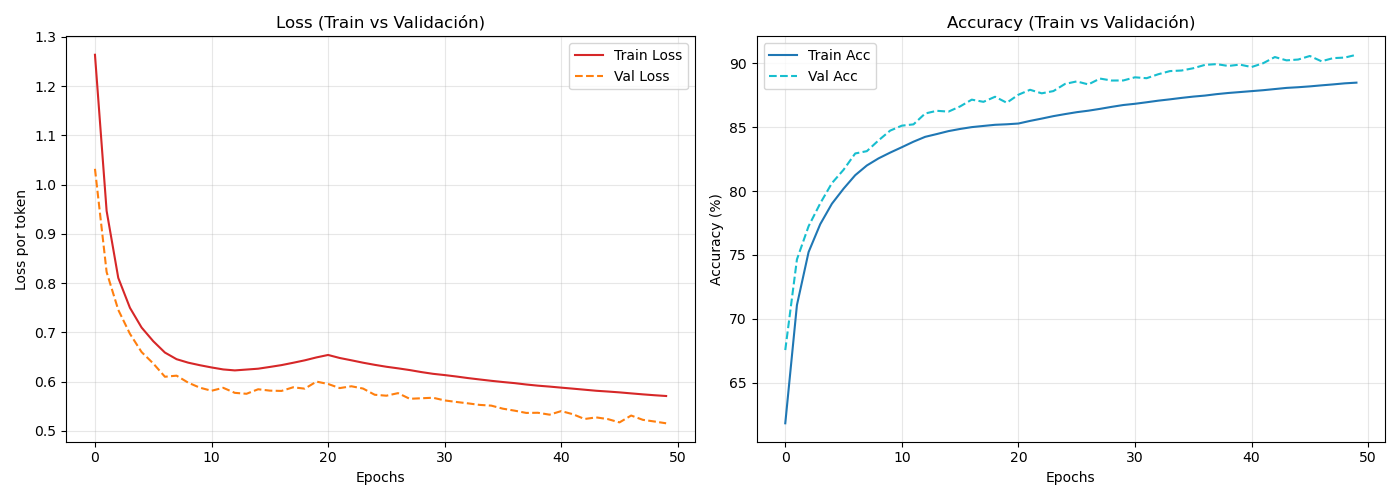
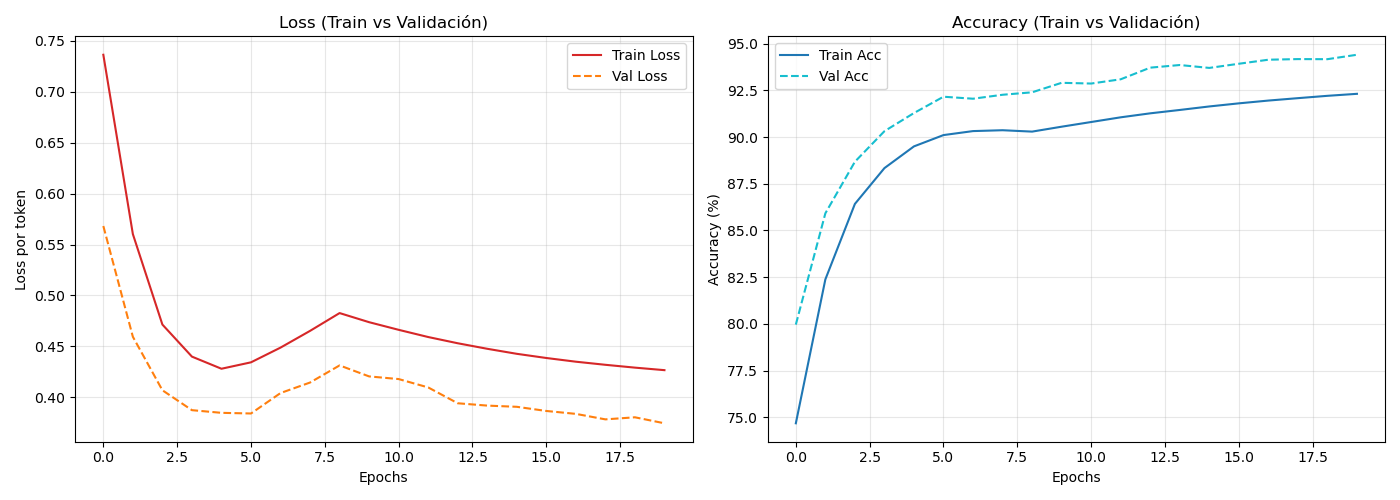
Integracion del Dataset Moses, y correccion de errores para poder evaluar el modelo con MOSES.

diff --git a/src/analisis_resultados.py b/src/analisis_resultados.py
@@ -23,7 +23,7 @@ RDLogger.DisableLog('rdApp.*')
 
 # --- CONFIGURACIÓN ---
 MODEL_PATH = os.path.join(ROOT_DIR, "models", "vae_model.pth")
-ZINC_PATH = os.path.join(ROOT_DIR, "data", "zinc250k.csv")
+MOSES_PATH = os.path.join(ROOT_DIR, "data", "moses.csv")
 NUM_GENERATED = 30000      # Número de moléculas a generar
 MAX_LEN = 100
 TEMP = 1.0
@@ -172,19 +172,22 @@ def calculate_properties(smiles_list, source_name=""):
     return df
 
 
-def load_zinc_dataset(path, sample_size=None):
-    """Carga el dataset ZINC250k y extrae SMILES."""
-    print(f"Cargando dataset ZINC250k desde {path}...")
+def load_moses_dataset(path, sample_size=None):
+    """Carga el dataset MOSES y extrae SMILES."""
+    print(f"Cargando dataset MOSES desde {path}...")
     df = pd.read_csv(path)
     
-    # Limpiar SMILES (quitar saltos de línea)
-    df['smiles'] = df['smiles'].str.strip()
+    # MOSES usa la columna "SMILES" y "SPLIT". Filtrar por train
+    df_train = df[df['SPLIT'] == 'train'].copy()
     
-    if sample_size and sample_size < len(df):
-        df = df.sample(n=sample_size, random_state=42)
+    # Limpiar SMILES (quitar saltos de línea)
+    df_train['SMILES'] = df_train['SMILES'].str.strip()
+    
+    if sample_size and sample_size < len(df_train):
+        df_train = df_train.sample(n=sample_size, random_state=42)
         print(f"  Muestra de {sample_size} moléculas seleccionada")
     
-    return df['smiles'].tolist()
+    return df_train['SMILES'].tolist()
 
 
 def plot_comparison(df_original, df_generated, output_path):
@@ -198,11 +201,11 @@ def plot_comparison(df_original, df_generated, output_path):
     fig, axes = plt.subplots(1, 2, figsize=(14, 5))
     
     # Colores
-    colors = {'ZINC250k (Original)': '#2E86AB', 'Generadas (VAE)': '#E94F37'}
+    colors = {'MOSES (Original)': '#2E86AB', 'Generadas (VAE)': '#E94F37'}
     
     # --- Gráfico 1: Distribución de LogP ---
     ax1 = axes[0]
-    for source in ['ZINC250k (Original)', 'Generadas (VAE)']:
+    for source in ['MOSES (Original)', 'Generadas (VAE)']:
         data = df_combined[df_combined['Source'] == source]['LogP']
         sns.kdeplot(
             data=data,
@@ -218,14 +221,14 @@ def plot_comparison(df_original, df_generated, output_path):
     ax1.set_ylabel('Densidad', fontsize=12)
     ax1.set_title('Distribución de LogP', fontsize=14, fontweight='bold')
     ax1.legend(fontsize=10)
-    ax1.axvline(x=df_original['LogP'].mean(), color=colors['ZINC250k (Original)'], 
+    ax1.axvline(x=df_original['LogP'].mean(), color=colors['MOSES (Original)'], 
                 linestyle='--', alpha=0.7, label=f"Media Original: {df_original['LogP'].mean():.2f}")
     ax1.axvline(x=df_generated['LogP'].mean(), color=colors['Generadas (VAE)'], 
                 linestyle='--', alpha=0.7, label=f"Media Generadas: {df_generated['LogP'].mean():.2f}")
     
     # --- Gráfico 2: Distribución de Peso Molecular ---
     ax2 = axes[1]
-    for source in ['ZINC250k (Original)', 'Generadas (VAE)']:
+    for source in ['MOSES (Original)', 'Generadas (VAE)']:
         data = df_combined[df_combined['Source'] == source]['MW']
         sns.kdeplot(
             data=data,
@@ -241,7 +244,7 @@ def plot_comparison(df_original, df_generated, output_path):
     ax2.set_ylabel('Densidad', fontsize=12)
     ax2.set_title('Distribución de Peso Molecular', fontsize=14, fontweight='bold')
     ax2.legend(fontsize=10)
-    ax2.axvline(x=df_original['MW'].mean(), color=colors['ZINC250k (Original)'], 
+    ax2.axvline(x=df_original['MW'].mean(), color=colors['MOSES (Original)'], 
                 linestyle='--', alpha=0.7)
     ax2.axvline(x=df_generated['MW'].mean(), color=colors['Generadas (VAE)'], 
                 linestyle='--', alpha=0.7)
@@ -259,7 +262,7 @@ def print_statistics(df_original, df_generated):
     print("ESTADÍSTICAS COMPARATIVAS")
     print("="*60)
     
-    print(f"\n{'Métrica':<25} {'ZINC250k':<20} {'Generadas':<20}")
+    print(f"\n{'Métrica':<25} {'MOSES':<20} {'Generadas':<20}")
     print("-"*65)
     
     # Número de moléculas válidas
@@ -284,7 +287,7 @@ def print_statistics(df_original, df_generated):
 
 def main():
     print("="*60)
-    print("ANÁLISIS COMPARATIVO: Moléculas Generadas vs ZINC250k")
+    print("ANÁLISIS COMPARATIVO: Moléculas Generadas vs MOSES")
     print("="*60)
     
     # 1. Cargar modelo VAE
@@ -297,13 +300,13 @@ def main():
     generated_smiles = generate_molecules(model, stoi, itos, latent_dim, NUM_GENERATED)
     
     # 3. Cargar dataset original (muestra del mismo tamaño para comparación justa)
-    print(f"\n[3/5] Cargando dataset ZINC250k...")
-    original_smiles = load_zinc_dataset(ZINC_PATH, sample_size=NUM_GENERATED)
+    print(f"\n[3/5] Cargando dataset MOSES...")
+    original_smiles = load_moses_dataset(MOSES_PATH, sample_size=NUM_GENERATED)
     
     # 4. Calcular propiedades
     print(f"\n[4/5] Calculando propiedades moleculares...")
     print("  Procesando moléculas originales...")
-    df_original = calculate_properties(original_smiles, source_name='ZINC250k (Original)')
+    df_original = calculate_properties(original_smiles, source_name='MOSES (Original)')
     print(f"    -> {len(df_original)} moléculas válidas")
     
     print("  Procesando moléculas generadas...")

diff --git a/src/train.py b/src/train.py
@@ -14,18 +14,18 @@ sys.path.insert(0, os.path.dirname(os.path.abspath(__file__)))
 
 # --- config ---
 BATCH_SIZE = 128       # Tamaño del batch
-EPOCHS = 50           # Número total de epochs
+EPOCHS = 20           # Número total de epochs
 LEARNING_RATE = 1e-3  # Tasa de aprendizaje
 LATENT_DIM = 128      
 HIDDEN_DIM = 128      
 EMBED_DIM = 128       
 KL_START = 0 
 KL_END = 0.3      
-KL_ANNEAL_EPOCHS = 20 # Número de epochs para hacer annealing
+KL_ANNEAL_EPOCHS = 8  # Número de epochs para hacer annealing
 
 # Paths y dispositivo
 DEVICE = torch.device("cuda" if torch.cuda.is_available() else "cpu")
-DATA_PATH = os.path.join(ROOT_DIR, "data", "data_processed.pt")
+DATA_PATH = os.path.join(ROOT_DIR, "data", "moses_processed.pt")
 MODEL_SAVE_PATH = os.path.join(ROOT_DIR, "models", "vae_model.pth")
 PLOT_FILE = os.path.join(ROOT_DIR, "outputs", "training_loss.png")
 
@@ -35,7 +35,7 @@ def train():
     
     # 1. Cargar Datos
     if not os.path.exists(DATA_PATH):
-        print("No se encuentra data_processed.pt")
+        print(f"No se encuentra {DATA_PATH}")
 
     os.makedirs(os.path.join(ROOT_DIR, "models"), exist_ok=True)
     os.makedirs(os.path.join(ROOT_DIR, "outputs"), exist_ok=True)
@@ -96,7 +96,7 @@ def train():
             prediction, mu, logvar = model(x)
             
             # Calcular Error 
-            loss = vae_loss_function(prediction, x, mu, logvar, kl_weight)
+            loss, recon_loss, kl_loss = vae_loss_function(prediction, x, mu, logvar, kl_weight)
             
             # Backward 
             optimizer.zero_grad()

diff --git a/src/data_prep.py b/src/data_prep.py
@@ -8,15 +8,15 @@ import urllib.request
 # Directorio raíz del proyecto (un nivel arriba de src/)
 ROOT_DIR = os.path.dirname(os.path.dirname(os.path.abspath(__file__)))
 
-# config
-DATA_URL = "https://raw.githubusercontent.com/aspuru-guzik-group/chemical_vae/master/models/zinc_properties/250k_rndm_zinc_drugs_clean_3.csv"
-FILENAME = os.path.join(ROOT_DIR, "data", "zinc250k.csv")
-PROCESSED_FILE = os.path.join(ROOT_DIR, "data", "data_processed.pt")
+# config para MOSES
+DATA_URL = "https://media.githubusercontent.com/media/molecularsets/moses/master/data/dataset_v1.csv"
+FILENAME = os.path.join(ROOT_DIR, "data", "moses.csv")
+PROCESSED_FILE = os.path.join(ROOT_DIR, "data", "moses_processed.pt")
 MAX_LEN = 100 
 
 def get_data():
     if not os.path.exists(FILENAME):
-        print(f"Descargando datos...")
+        print(f"Descargando datos de MOSES...")
         try:
             urllib.request.urlretrieve(DATA_URL, FILENAME)
         except Exception as e:
@@ -24,9 +24,14 @@ def get_data():
             exit()
     
     df = pd.read_csv(FILENAME)
+    
+    # MOSES usa la columna "SMILES" y "SPLIT". Vamos a usar solo el split de entrenamiento
+    df_train = df[df['SPLIT'] == 'train'].copy()
+    
     # Limpiamos espacios
-    df['smiles'] = df['smiles'].str.strip()
-    return df['smiles'].tolist()
+    df_train['SMILES'] = df_train['SMILES'].str.strip()
+    
+    return df_train['SMILES'].tolist()
 
 def process_data(smiles_list):
     print(f"Procesando {len(smiles_list)} moléculas...")

diff --git a/src/eval_moses.py b/src/eval_moses.py
@@ -8,9 +8,18 @@ import json
 import os
 import sys
 import moses
+import moses.metrics.metrics as metrics_module
+import numpy as np
+from scipy.spatial.distance import cosine
 
 # Directorio raíz del proyecto (un nivel arriba de src/)
 ROOT_DIR = os.path.dirname(os.path.dirname(os.path.abspath(__file__)))
+
+# Parche temporal para corregir el overflow de float32 en moses/scipy
+def safe_cos_distance(u, v):
+    return cosine(np.asarray(u, dtype=np.float64), np.asarray(v, dtype=np.float64))
+
+metrics_module.cos_distance = safe_cos_distance
 
 def load_smiles(path):
     with open(path, "r", encoding="utf-8") as f:
@@ -30,7 +39,7 @@ def main():
 
     # Calcular métricas MOSES
     print("Calculando métricas (puede tardar unos minutos)...")
-    metrics = moses.get_all_metrics(gen)
+    metrics = moses.get_all_metrics(gen, n_jobs=1)
 
     # Mostrar resultados
     print("\n=== Métricas MOSES ===")

diff --git a/src/latent_viz.py b/src/latent_viz.py
@@ -13,7 +13,7 @@ from vae_model import MolecularVAE
 
 # Configuración por defecto (sin CLI)
 MODEL_PATH = os.path.join(ROOT_DIR, "models", "vae_model.pth")
-DATA_PATH = os.path.join(ROOT_DIR, "data", "data_processed.pt")
+DATA_PATH = os.path.join(ROOT_DIR, "data", "moses_processed.pt")
 DEVICE = torch.device("cuda" if torch.cuda.is_available() else "cpu")
 BATCH_SIZE = 256
 MAX_SAMPLES = 30000  # usa todas si es menor que el dataset
